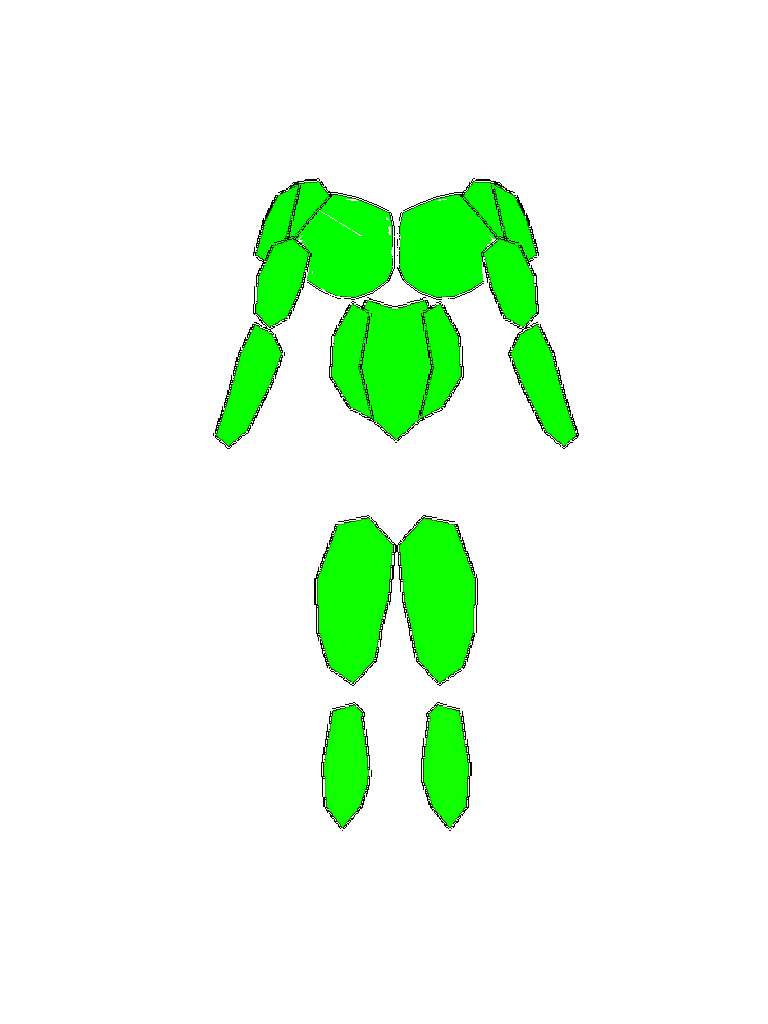
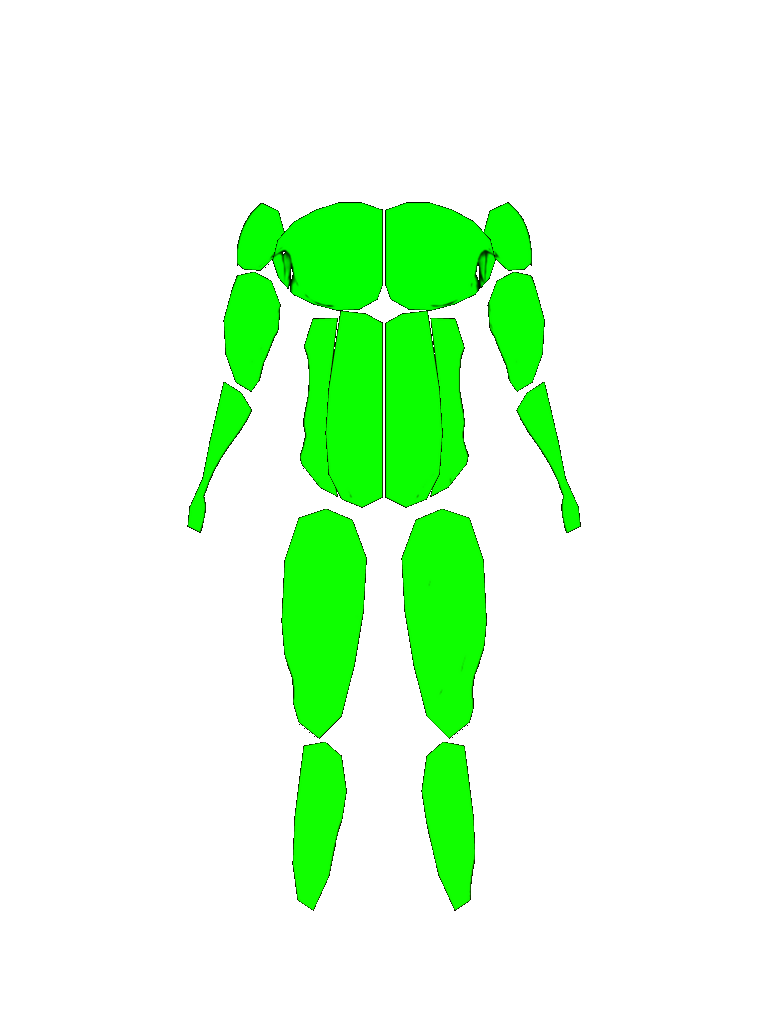
BodyPlan 2.0 Beta 8

Changed region(s): [[0.25, 0.1562, 0.75, 0.9062]]

diff --git a/index.html b/index.html
@@ -8,9 +8,9 @@
 <meta name="apple-mobile-web-app-title" content="BodyPlan">
 <meta name="theme-color" content="#080808">
 <title>BodyPlan</title>
-<link rel="manifest" href="manifest.json?v=200b71">
-<link rel="apple-touch-icon" href="apple-touch-icon.png?v=200b71">
-<link rel="stylesheet" href="app.css?v=200b71">
+<link rel="manifest" href="manifest.json?v=200b8">
+<link rel="apple-touch-icon" href="apple-touch-icon.png?v=200b8">
+<link rel="stylesheet" href="app.css?v=200b8">
 </head>
 <body>
 <header class="topbar">
@@ -81,6 +81,6 @@
 </section></div>
 <div class="dialog-backdrop" id="bodyDialog" hidden><section class="body-dialog" role="dialog" aria-modal="true" aria-labelledby="bodyDialogTitle"><div class="row"><div><div class="eyebrow">Körperdaten</div><h2 id="bodyDialogTitle">Messung erfassen</h2></div><button class="icon-close" id="closeBodyDialog" aria-label="Schließen">×</button></div><form id="bodyForm"><div class="form-field"><label for="bodyDate">Datum</label><input id="bodyDate" type="date" required></div><div class="grid2"><div class="form-field"><label for="bodyWeight">Gewicht (kg)</label><input id="bodyWeight" type="number" inputmode="decimal" min="20" max="500" step="0.1" placeholder="z. B. 72,5"></div><div class="form-field"><label for="bodyFat">Körperfett (%)</label><input id="bodyFat" type="number" inputmode="decimal" min="1" max="70" step="0.1" placeholder="z. B. 12,0"></div></div><p class="muted">Mindestens einen Wert eingeben. Leere Felder verändern bestehende Messwerte nicht.</p><button class="primary full" type="submit">Messung speichern</button></form></section></div>
 <input id="importFile" type="file" accept=".json" hidden>
-<script src="app.js?v=200b71"></script>
-<script>if("serviceWorker" in navigator){navigator.serviceWorker.register("./service-worker.js?v=200b71").catch(()=>{})}</script></body>
+<script src="app.js?v=200b8"></script>
+<script>if("serviceWorker" in navigator){navigator.serviceWorker.register("./service-worker.js?v=200b8").catch(()=>{})}</script></body>
 </html>

diff --git a/app.js b/app.js
@@ -507,7 +507,7 @@ function muscleScores(days){
 }
 function anatomyView(view,scores,max){
  const label=view==="front"?"Vorderseite":"Rückseite";
- return `<div class="anatomy-card"><div class="eyebrow">${label}</div><div class="anatomy-wrap anatomy-canvas-wrap"><canvas class="heat-canvas" data-heat-view="${view}" width="768" height="1024" role="img" aria-label="Anatomische Muskelansicht ${label}"></canvas></div></div>`;
+ return `<div class="anatomy-card anatomy-clean"><div class="anatomy-wrap anatomy-canvas-wrap"><canvas class="heat-canvas" data-heat-view="${view}" width="768" height="1024" role="img" aria-label="Anatomische Muskelansicht ${label}"></canvas></div></div>`;
 }
 const HEAT_GROUPS=["chest", "lats", "upper_back", "traps", "front_delts", "side_delts", "rear_delts", "biceps", "triceps", "forearms", "abs", "obliques", "erectors", "quads", "hamstrings", "glutes", "calves"];
 const heatImages={};

diff --git a/app.css b/app.css
@@ -488,3 +488,9 @@ body.picker-open{overflow:hidden}
 .heat-legend-clear span{font-size:9px;color:#aaa;line-height:1.2}
 .heat-legend-clear small{display:block;margin-top:3px;color:#666;font-size:8px;white-space:nowrap}
 @media(max-width:390px){.heat-legend-clear i{flex-basis:14px}.heat-legend-clear span{font-size:8px}.heat-legend-clear small{font-size:7px}}
+
+/* Beta 8: clean transparent anatomy assets */
+.anatomy-card.anatomy-clean{background:transparent;padding:8px;border-color:#282828}
+.anatomy-clean .anatomy-wrap{background:transparent!important;border-radius:16px;overflow:hidden}
+.anatomy-clean .heat-canvas{background:transparent}
+@media(max-width:430px){.anatomy-card.anatomy-clean{padding:4px}}

diff --git a/service-worker.js b/service-worker.js
@@ -1,4 +1,4 @@
-const CACHE_NAME='bodyplan-2-beta7-1';
+const CACHE_NAME='bodyplan-2-beta8';
 const ASSETS=[
 './','./index.html','./app.css','./app.js',
 './exercise-seed.json','./starter-plan.json',

diff --git a/QA.md b/QA.md
@@ -1,21 +1,16 @@
-# BodyPlan 2.0 Beta 7.1 – QA
+# Beta 8 – Qualitätsprüfung
 
-## Behobene Regressionen
-- Heatmap konnte wegen eines nicht initialisierten `heatView`-States nicht gerendert werden.
-- Nach dem Entfernen des Gewohnheiten-Bereichs war in den Einstellungen ein verwaister Toggle im Markup verblieben.
-
-## Durchgeführte Tests
-- JavaScript-Syntaxprüfung mit Node.
-- Browser-Integrationstest in Chromium auf 390 × 844 px.
-- Heatmap-Aufruf über die Dashboard-Kachel.
-- Heatmap-Aufruf über das Burgermenü.
-- Vorderseite/Rückseite-Switch.
-- Heatmap-Berechnung mit einer repräsentativen gespeicherten Trainingseinheit.
-- Einstellungen: exakt drei Dashboard-Schalter, kein verwaister Toggle, Gewohnheiten nicht sichtbar.
-- Ein-/Ausblenden von „Letztes Training“ und Rückwirkung auf das Dashboard.
-- Navigation durch Dashboard, Trainingspläne, Übungsbibliothek, Historie, Fortschritt, Muskel-Heatmap und Einstellungen.
-- Prüfung auf horizontales Overflow auf Mobile.
-- Prüfung aller Service-Worker-Assets und ZIP-Integrität.
+## Geprüft
+- JavaScript-Syntaxprüfung.
+- ZIP-Integrität.
+- alle vom Service Worker referenzierten Assets vorhanden.
+- Front- und Rückseitenasset exakt 768 × 1024 Pixel.
+- transparente Außenbereiche der beiden Anatomy-PNGs geprüft.
+- Masken exakt 768 × 1024 und auf dieselbe Gruppen-ID-Reihenfolge wie die App geprüft.
+- Browser-Test der Heatmap-Navigation über Dashboard und Burgermenü.
+- Front-/Back-Switch im Browser getestet.
+- dynamische Heatmap mit Test-Trainingsdaten für Vorder- und Rückseite gerendert.
+- Einstellungen und übrige Hauptnavigation auf JavaScript-Laufzeitfehler geprüft.
 
 ## Grenze
-Der Test wurde in einer isolierten Chromium-Umgebung durchgeführt. Der finale iOS-Home-Screen-/Safari-Test und der echte GitHub-Pages-Service-Worker-Lifecycle können nur auf dem Zielgerät vollständig verifiziert werden.
+Der Test erfolgt in einer Chromium-Testumgebung. Die finale visuelle Kontrolle auf der iOS-Home-Screen-PWA und der produktiven GitHub-Pages-URL muss nach dem Deployment auf dem iPhone erfolgen.

diff --git a/README.md b/README.md
@@ -1,13 +1,22 @@
-# BodyPlan 2.0 Beta 7.1
+# BodyPlan 2.0 Beta 8
 
-Korrigierter Heatmap-Release auf Basis von Beta 7.
-
-## Korrekturen
-- Heatmap-Navigation vom Dashboard und Burgermenü wieder vollständig funktionsfähig.
-- Front-/Back-Switch mit stabilem initialen Zustand.
-- Verwaisten Toggle in den Einstellungen entfernt.
-- Kontraststärkeres Heatmap-Farbsystem und kompakte Einzelansicht aus Beta 7 beibehalten.
-- Bestehende lokale Datenstruktur unverändert.
+## Schwerpunkt
+Beta 8 ersetzt die bisherigen beschrifteten Anatomie-Grafiken durch neue, saubere und transparente Front-/Rückansichten. Es gibt keine eingebrannten Texte, Linien oder schwarzen Bildflächen mehr. Die Heatmap-Overlays wurden auf die neuen Anatomie-Proportionen neu registriert.
 
 ## Update
-Vor dem Deployment ein Backup erstellen. Danach den vollständigen ZIP-Inhalt in das bestehende GitHub-Pages-Repository hochladen und gleichnamige Dateien ersetzen. Website-Daten nicht löschen.
+1. In BodyPlan unter Einstellungen ein Backup erstellen und sicher aufbewahren.
+2. Den kompletten Inhalt dieser ZIP in das bestehende GitHub-Pages-Repository hochladen und gleichnamige Dateien ersetzen.
+3. Nach erfolgreichem Deployment die App vollständig schließen und erneut öffnen. Bei sichtbarem Altbestand die Website in Safari neu laden. Website-Daten nicht löschen und die Home-Screen-App nicht deinstallieren.
+
+## Daten
+Die lokale BodyPlan-Datenbank und bestehende Trainings-/Körperdaten werden nicht automatisch gelöscht. Dieses Release verändert die Heatmap-Assets und deren Darstellung, nicht die gespeicherten Trainingsdaten.
+
+## Heatmap
+- separate transparente Front- und Rückansicht, jeweils 768 × 1024 px
+- keine eingebrannten Beschriftungen oder Verbindungslinien
+- neu registrierte Muskelmasken passend zu den neuen Körperproportionen
+- bestehender Front-/Back-Switch und Belastungsberechnung bleiben erhalten
+- Canvas und Bildasset besitzen keinen eigenen schwarzen Rechteck-Hintergrund
+
+## Qualitätssicherung
+Siehe QA.md.
